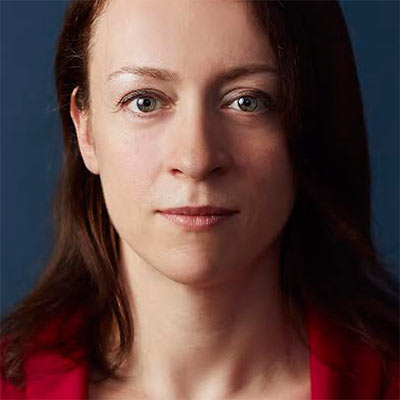
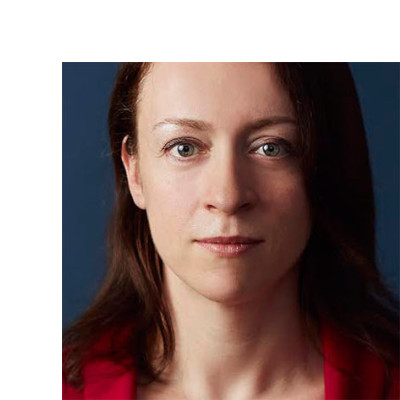
img 320px

diff --git a/index.html b/index.html
@@ -46,7 +46,7 @@
             </p>
 
             <picture>
-                <source media="(max-width:500px )" srcset="imagens/dan-droids-pq.png" >
+                <source media="(max-width:500px )" srcset="imagens/dan-droids-pq.png" class="ft-pq" >
 
                 <img src="imagens/dan-droids.png" alt="foto-androids" class="ft-gr">
 

diff --git a/estilo/stilo.css b/estilo/stilo.css
@@ -114,7 +114,7 @@ margin: auto;
 }
 .ft-pq {
     display: block;
-    
+    margin: auto;
     
 }
 main a:after {
